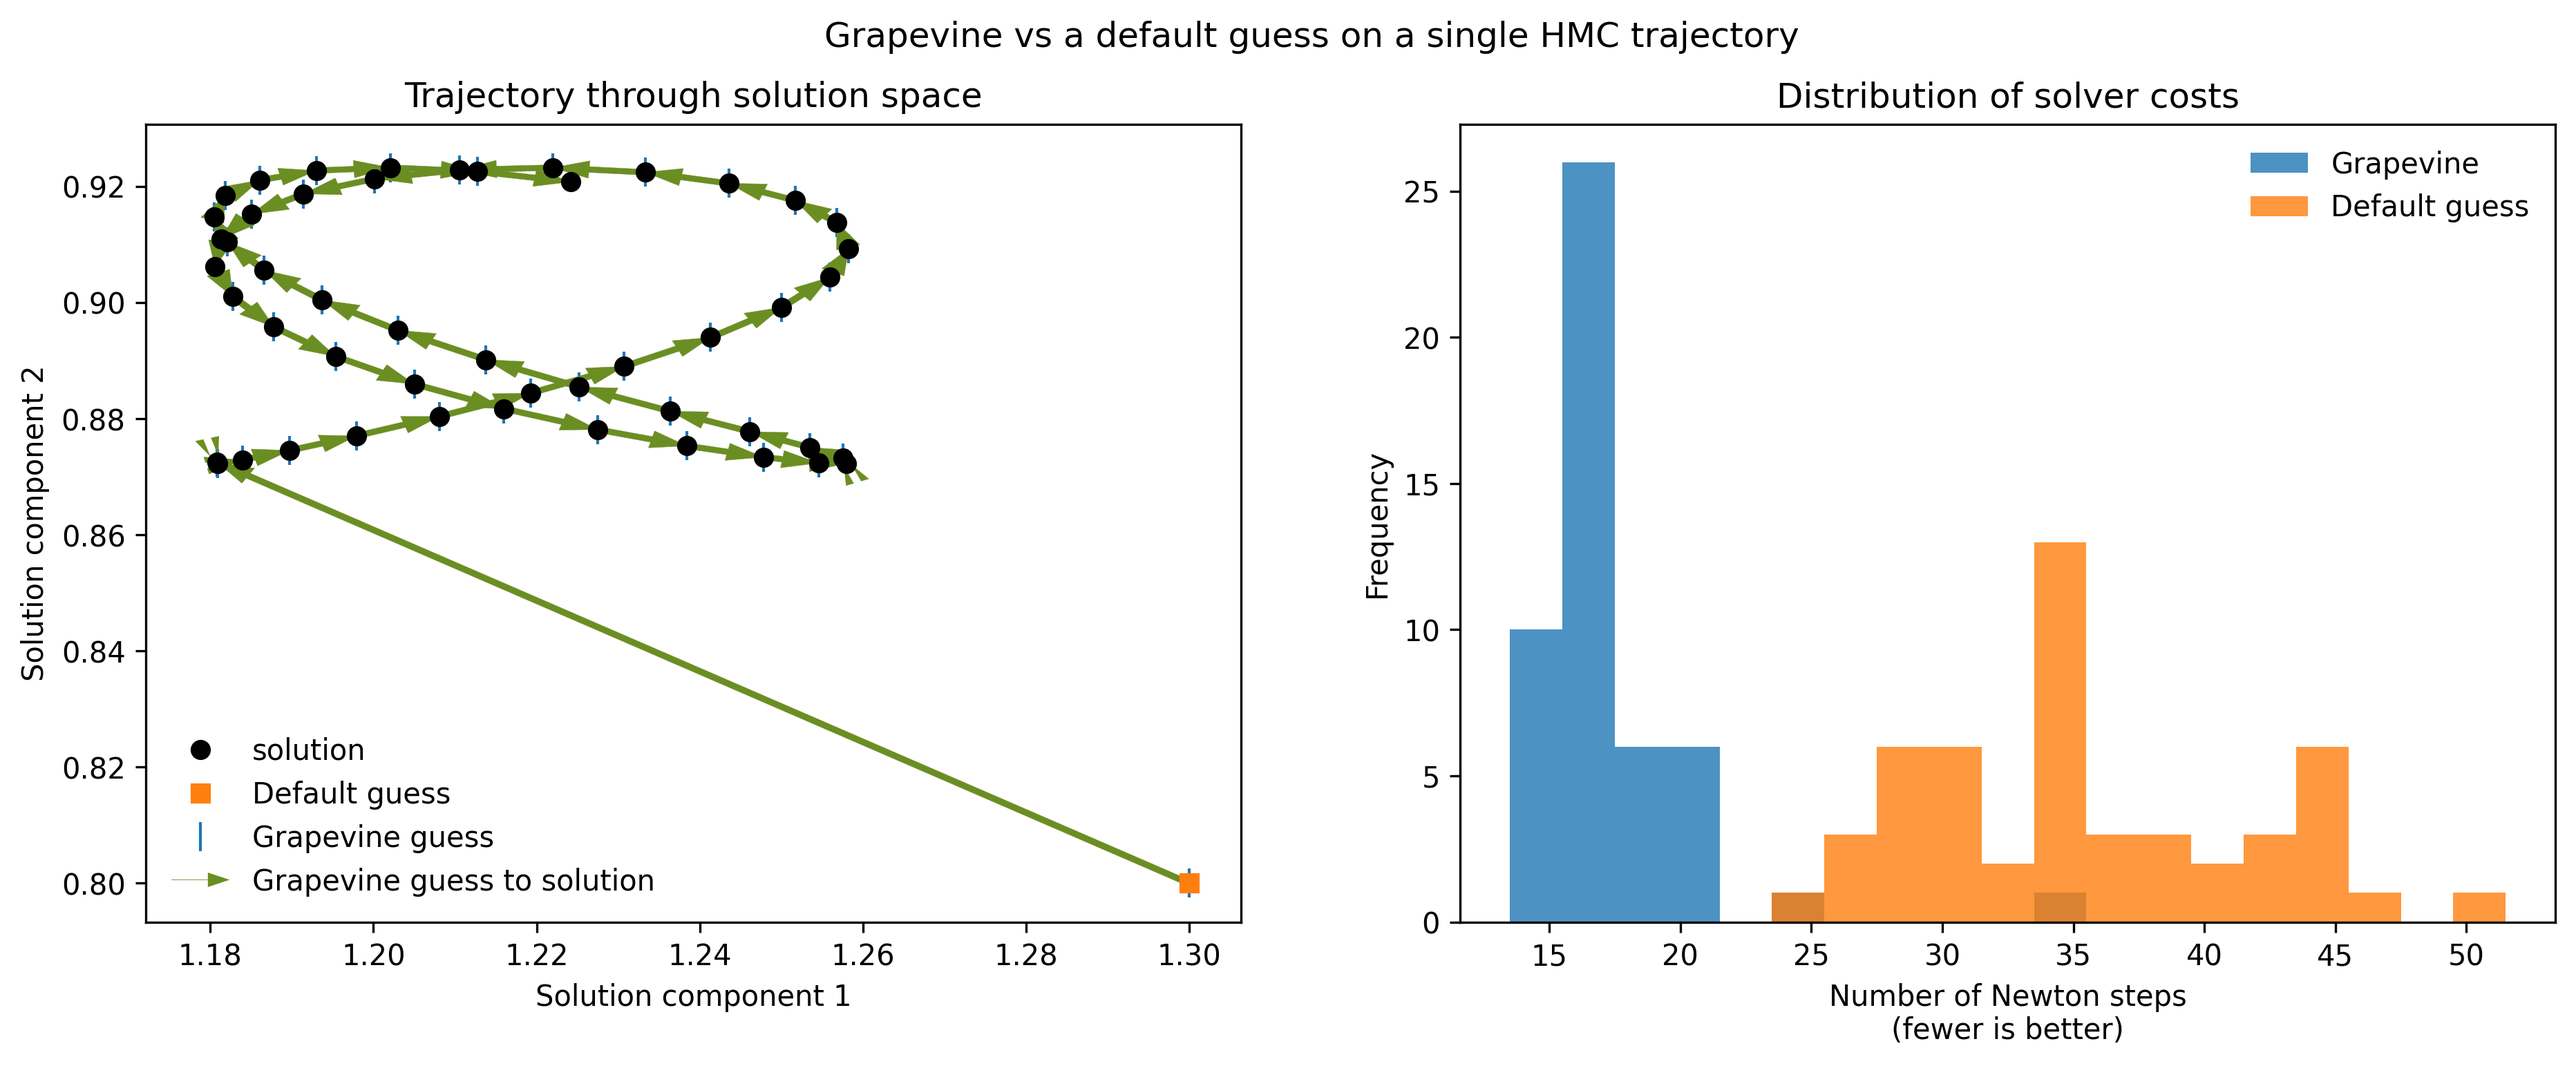
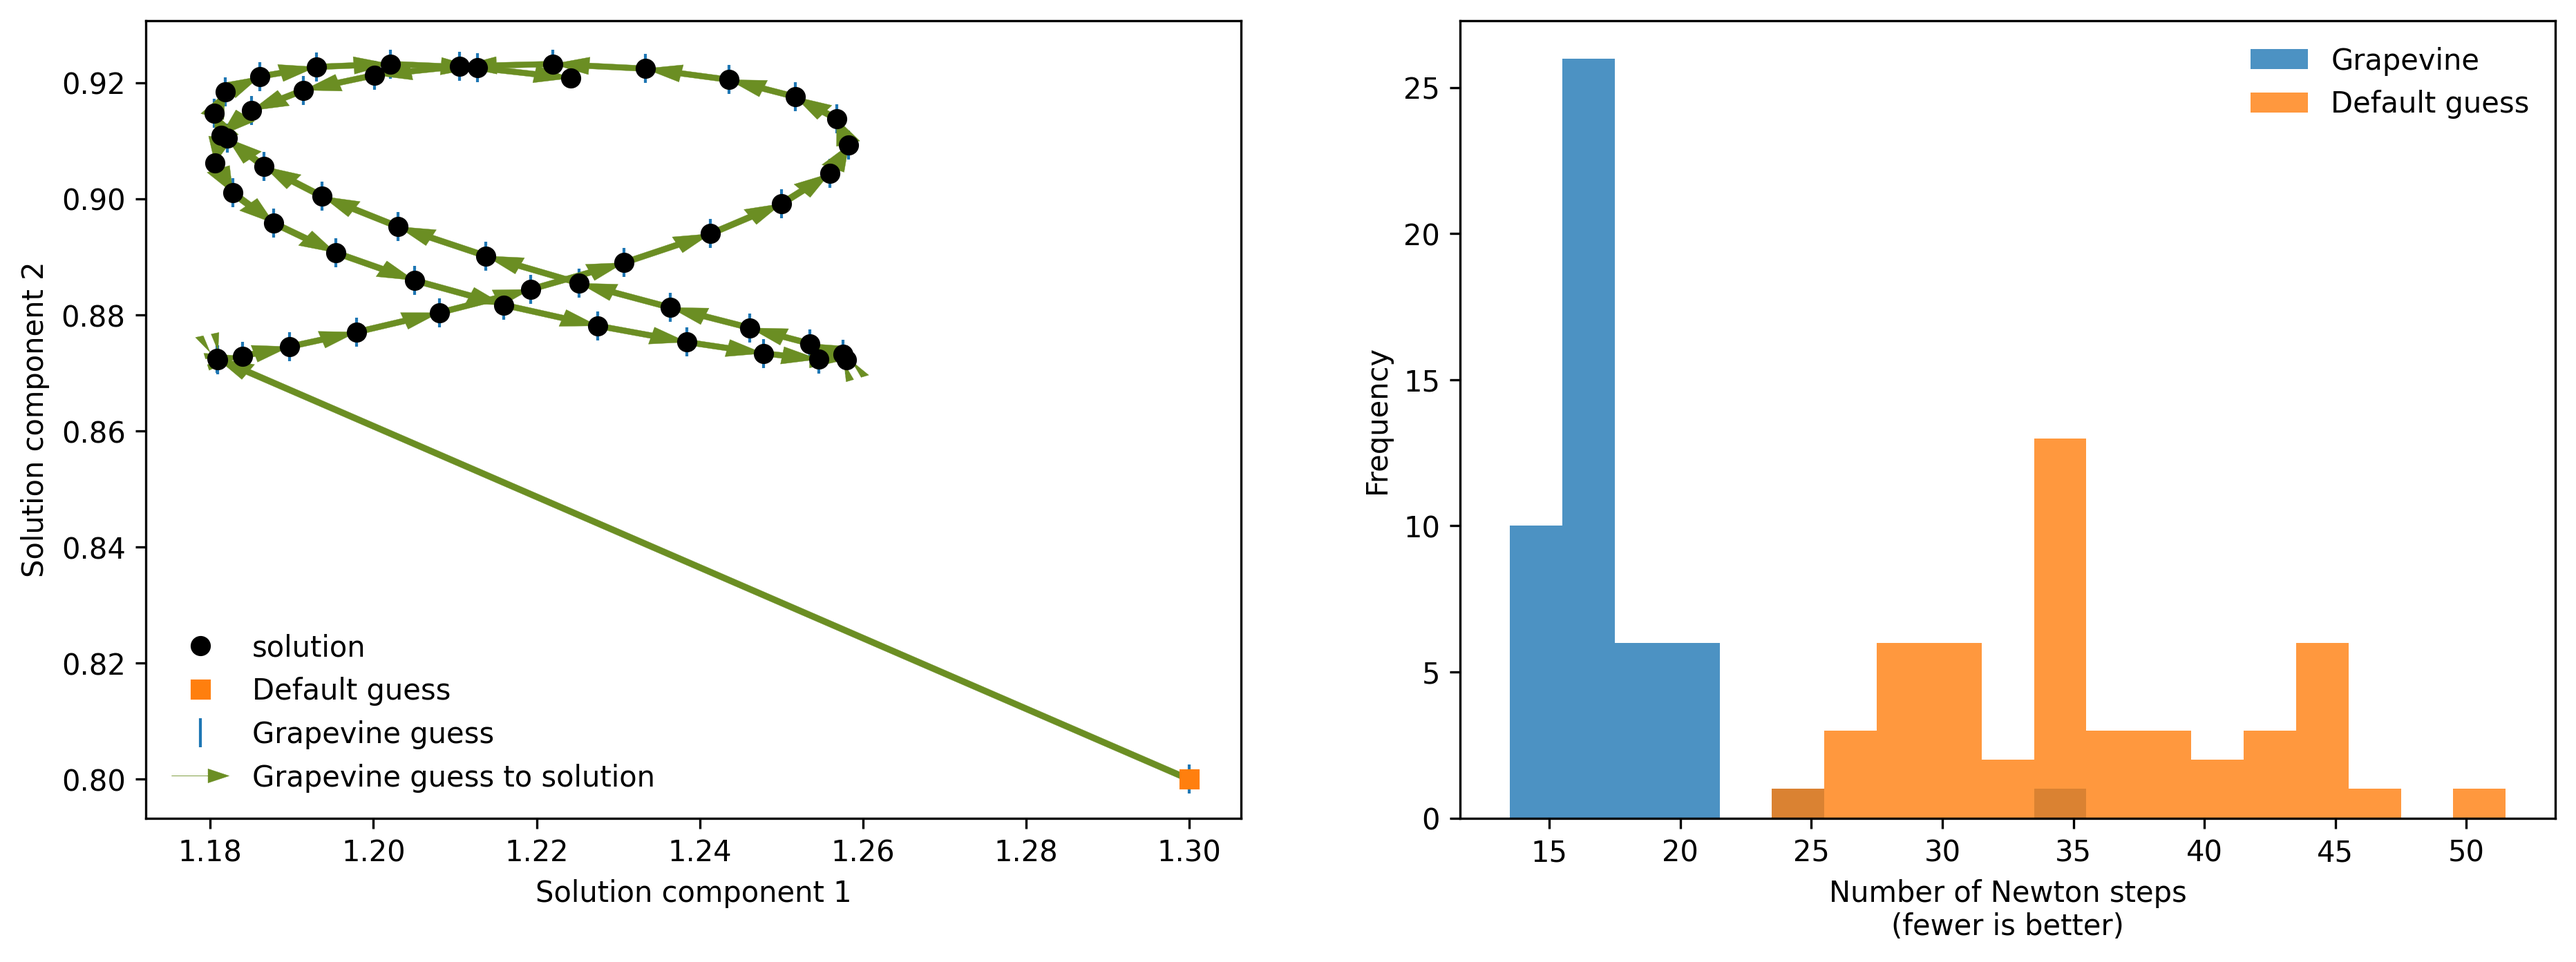
Remove titles from trajectory plot

diff --git a/benchmarks/analyse_results.py b/benchmarks/analyse_results.py
@@ -166,16 +166,13 @@ def trajectory_fig(result: pl.DataFrame):
     )
     axes[1].legend(frameon=False)
     axes[0].set(
-        title="Trajectory through solution space",
         xlabel="Solution component 1",
         ylabel="Solution component 2",
     )
     axes[1].set(
-        title="Distribution of solver costs",
         xlabel="Number of Newton steps\n(fewer is better)",
         ylabel="Frequency",
     )
-    f.suptitle("Grapevine vs a default guess on a single HMC trajectory")
     return f, axes
 
 
